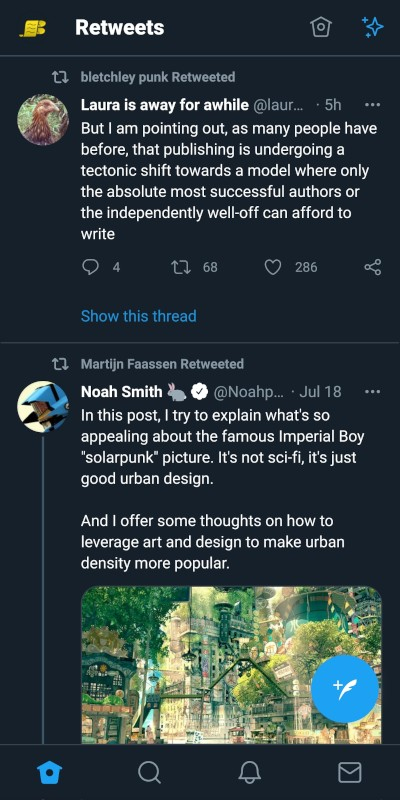
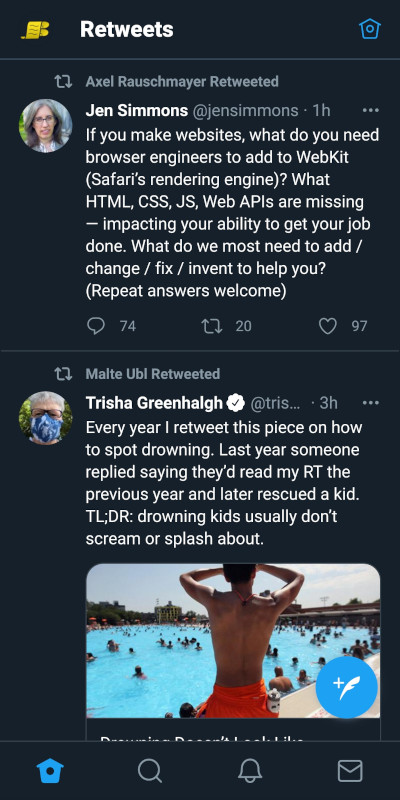
Update screenshots with the new defaults for 2.3 (note to bored of doing thatself: stop adding new default features) Add screenshots for experiments

diff --git a/README.md b/README.md
@@ -107,9 +107,15 @@ Optional features you can try, to see how they change how you perceive and use T
 
 ### Other mobile features
 
-| No trends on Explore screen, just search | No "Open app" nag in tweet header / Hide messages nav item |No "Switch to the app" nag when logged out… | …or when logging in
+| No trends on Explore screen, just search | No "Open app" nag in tweet header | No "Switch to the app" nag when logged out… | …or when logging in
 | - | - | - | - |
 | ![Screenshot of the Explore screen in mobile Twitter, with only the search part of the screen visible](screenshots/firefox_android_explore.jpg) | ![Screenshot an individual tweet in mobile Twitter, without the usual "Open app" buttoin in the header, and without the usual Messages navigation item in the bottom navigation bar](screenshots/firefox_android_tweet.jpg) | ![Screenshot of the login screen in mobile Twitter, without the usual "Twitter is better on the app" overlay](screenshots/firefox_android_no_nag_home.jpg) | ![Screenshot of the logged out home screen in mobile Twitter, without the usual "Twitter is better on the app" overlay](screenshots/firefox_android_no_nag_login.jpg) |
+
+### Experimental features
+
+| Hide metrics | Reduced interaction mode | Highlight (or hide) verified accounts |
+| - | - | - |
+| ![Sceenshot of a Twitter timeline with blank spaces where numbers for metrics should be](screenshots/hide_metrics.png) | ![Sceenshot of a Twitter timeline with the action bar below each tweet completely missing](screenshots/reduced_interaction_mode.png) | ![Sceenshot of a Twitter timeline with a tweet by a user with a verified badge highlighted](screenshots/highlight_verified_accounts.png)  |
 
 ### Language support
 
